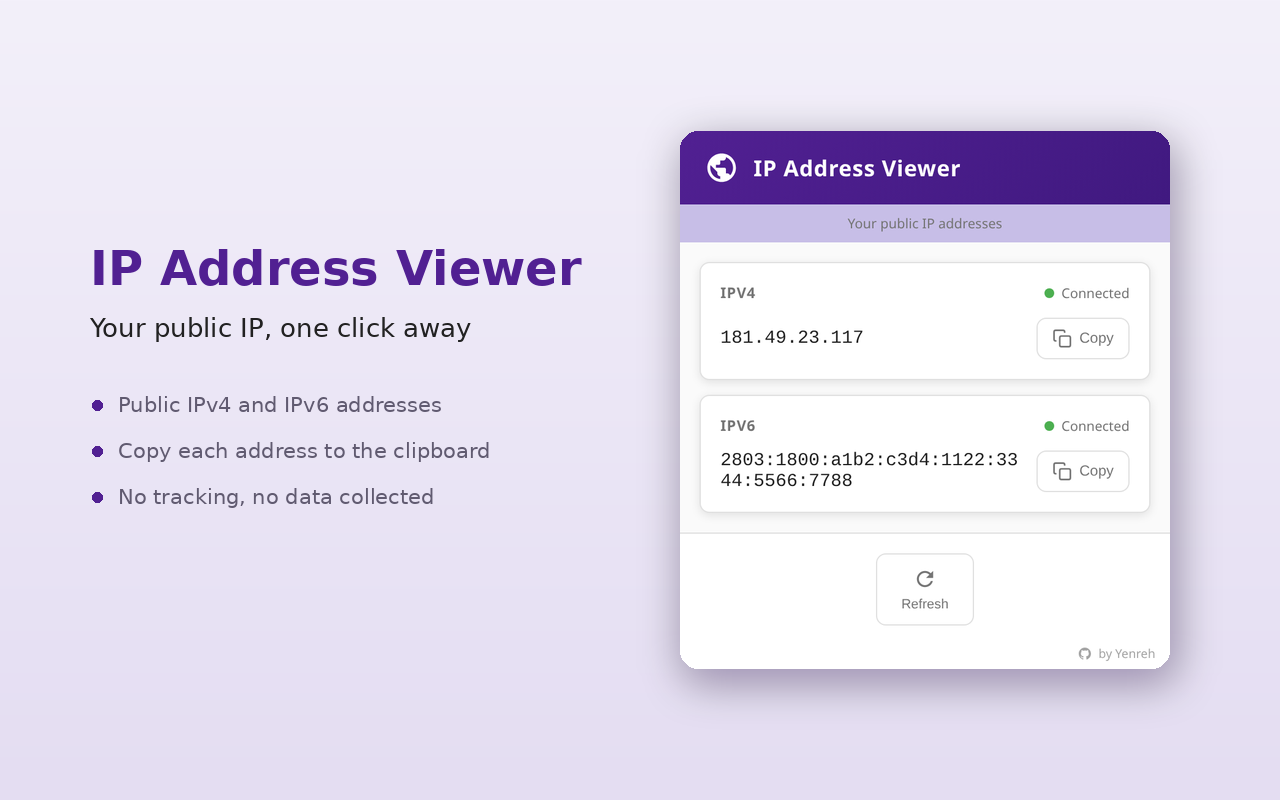
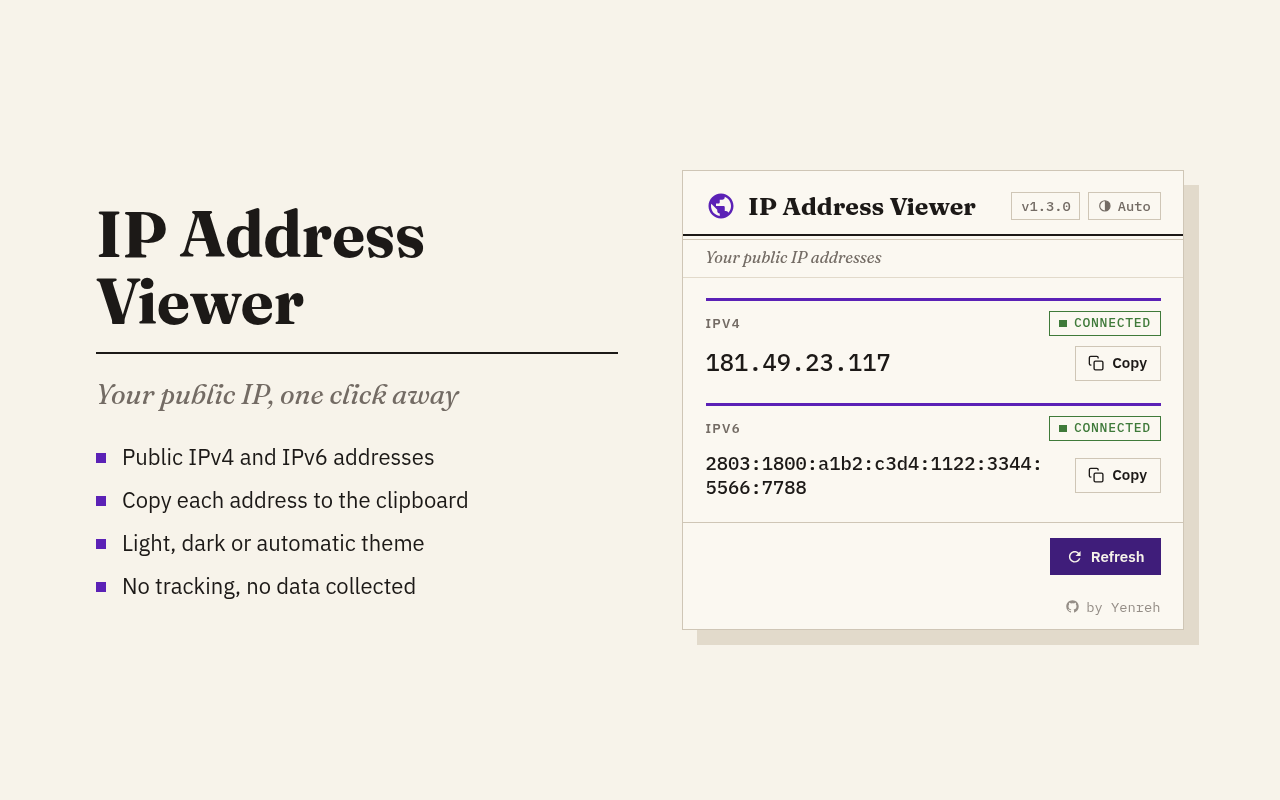
Update store screenshot and listing

diff --git a/STORE.md b/STORE.md
@@ -15,7 +15,7 @@ IP Address Viewer shows your public IP addresses in a single click:
 - Copy each address to the clipboard with one click
 - Refresh button to fetch the current addresses
 - Real-time status indicator per address
-- English and Spanish interface, light and dark mode
+- English and Spanish interface, light, dark or automatic theme
 
 The addresses are obtained from the free ipify.org API. The extension does not
 collect, store or transmit any personal data.
